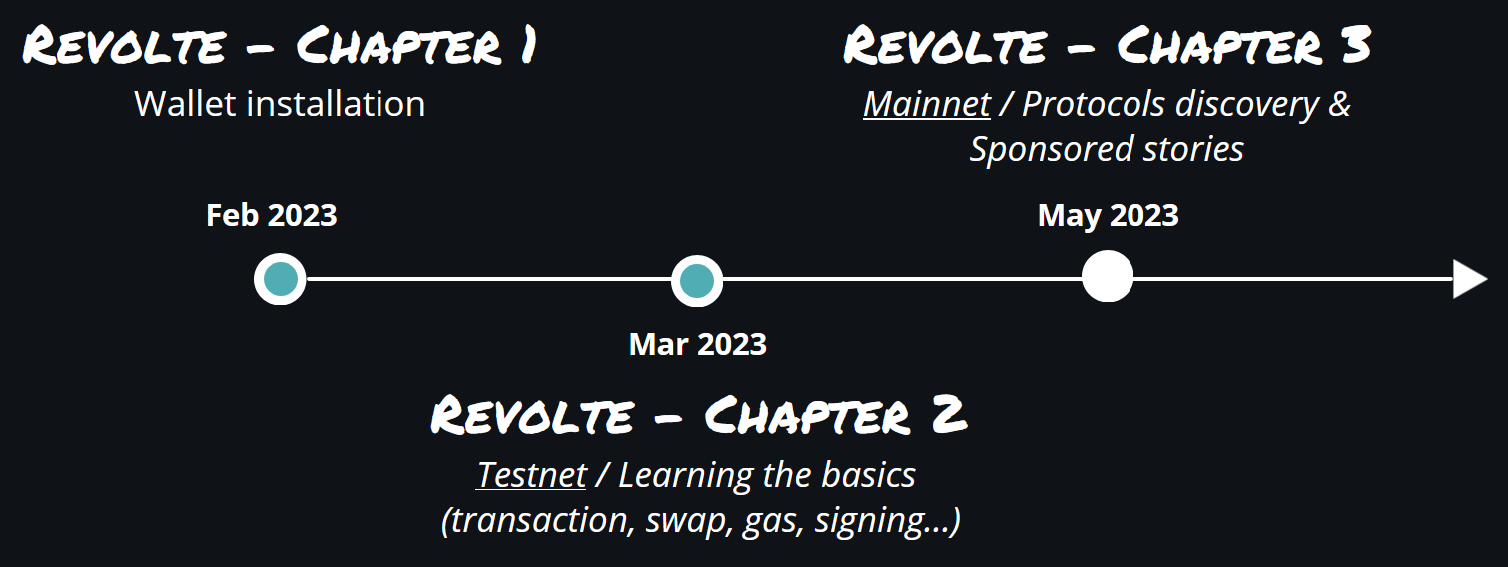
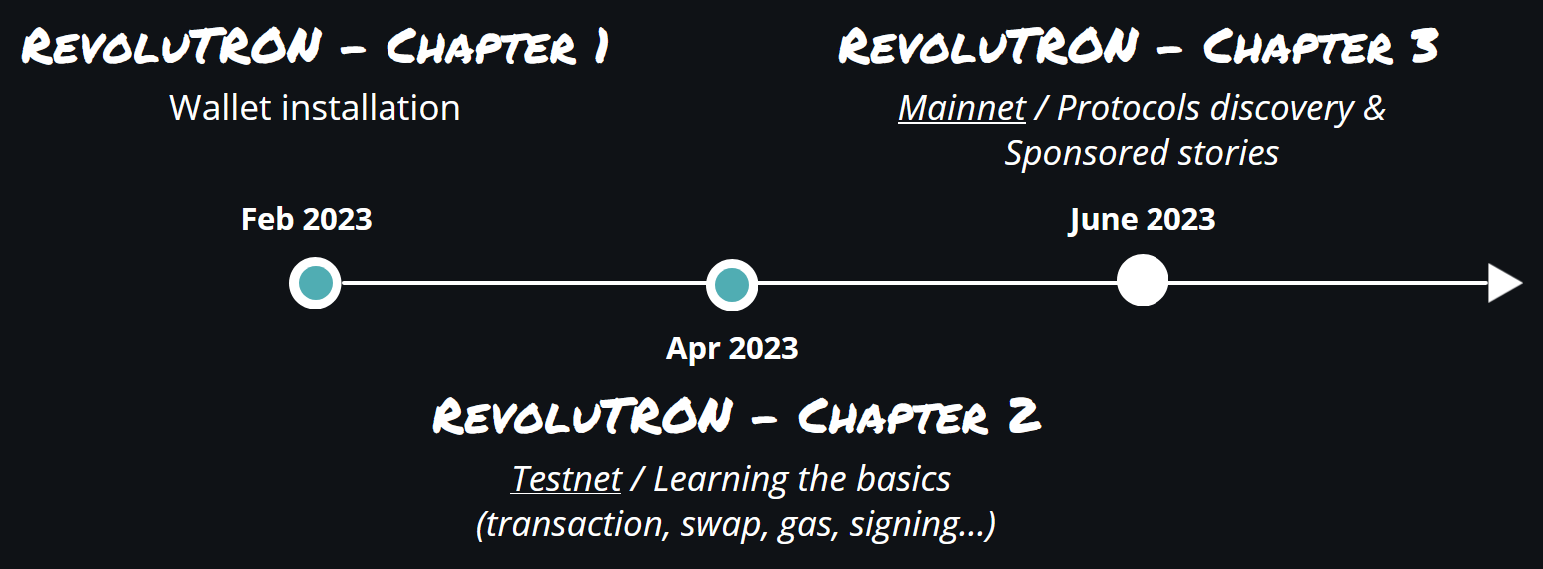
deck links roadmap and typo

diff --git a/app/components/Modal.tsx b/app/components/Modal.tsx
@@ -85,14 +85,14 @@ export const ModalInfo = ({ setModalInfo, deck }:
             <div className={` bg-[#0f1216] px-2 sm:px-16 py-2 sm:py-14 rounded-md text-center w-4/5`}>
                 <div className="flex justify-center">
                     {deck &&
-                        <p className="inline font-sans sm:block text-sm md:text-xl my-4 font-bold"><span className={`${perm_marker.className} md:text-3xl`}>Revolte </span> {t('title')}</p>
+                        <p className="inline font-sans sm:block text-sm md:text-xl my-4 font-bold"><span className={`${perm_marker.className} md:text-3xl`}>RevoluTRON </span> {t('title')}</p>
                     }
                     {!deck &&
-                        <p className="inline font-sans sm:block text-sm md:text-xl my-4 font-bold"><span className={`${perm_marker.className} md:text-3xl`}>Revolte </span> {t('subtitle')}</p>
+                        <p className="inline font-sans sm:block text-sm md:text-xl my-4 font-bold"><span className={`${perm_marker.className} md:text-3xl`}>RevoluTRON </span> {t('subtitle')}</p>
                     }
                 </div>
                 {deck &&
-                    <p className="font-sans sm:block justify-center text-sm md:text-xl mb-4 font-bold ">{t('deck')} ( <a className="underline" target="_blank" href="https://www.canva.com/design/DAFaoOaGU3A/Jj8ILlofzMJ5_gv8nlivKg/view?utm_content=DAFaoOaGU3A&utm_campaign=designshare&utm_medium=link2&utm_source=sharebutton">{t('online')} </a> / <a className="underline" target="_blank" href="https://drive.google.com/uc?id=1heBnCKRaljTbxGf0CcZR3-e65KASU53A&export=download">{t('download')}</a> )</p>
+                    <p className="font-sans sm:block justify-center text-sm md:text-xl mb-4 font-bold ">{t('deck')} ( <a className="underline" target="_blank" href="https://www.canva.com/design/DAFbyLc5QMo/IqXpol56nzWCz1ccNuumNg/edit?utm_content=DAFbyLc5QMo&utm_campaign=designshare&utm_medium=link2&utm_source=sharebutton">{t('online')} </a> / <a className="underline" target="_blank" href="https://drive.google.com/uc?id=1DSE_4--gNx3t6mdRUwFn1Zgw4_Q7vv7Q&export=download">{t('download')}</a> )</p>
                 }
                 {!deck &&
                     <p className="font-sans sm:block justify-center text-xs md:text-base mb-4 font-bold ">0x94b9420F65fB3ec966d96BB034b35AF86487D929</p>

diff --git a/app/[locale]/page.tsx b/app/[locale]/page.tsx
@@ -25,7 +25,7 @@ export default function Index() {
           <LocaleSwitcher />
         </div>
         <div className="my-auto relative">
-          <MotionOp opacity={0.4} delay={4}>
+          <MotionOp opacity={0.4} delay={2.7}>
             <Image
               className="rounded-md border-4 border-white"
               src={equipmentPic}
